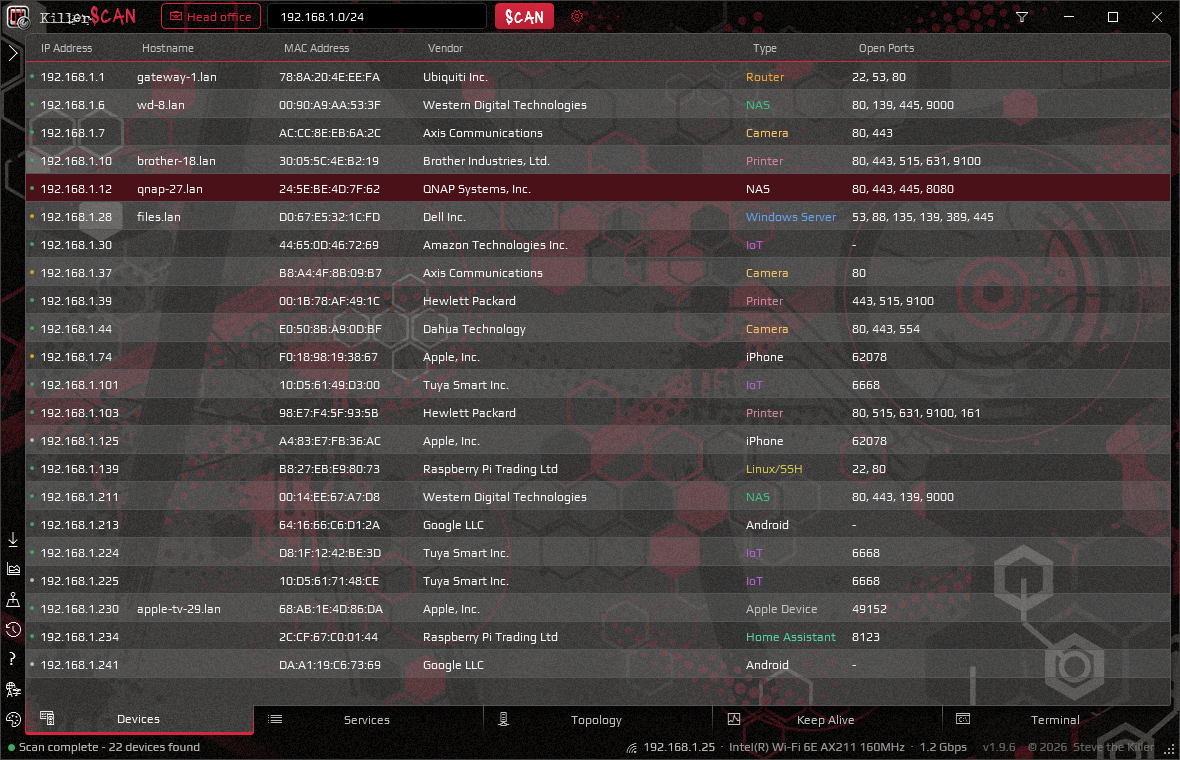
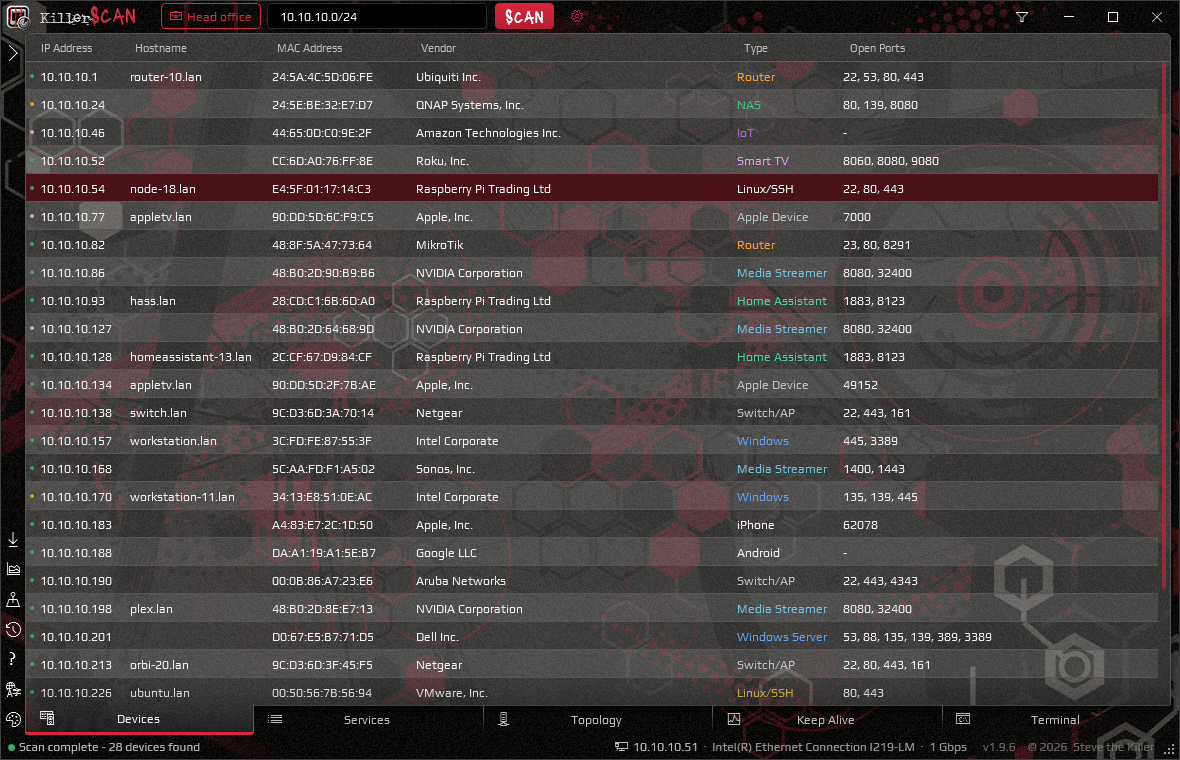
Spread the 1.9.6 shots across themes and update the README shots
Two Trash Polka shots stay on top; topology, Services, History and shortcuts now show Cyanotic, Black, Blood and Ectoplasm. History opens on All Devices so the table is full. The README shows Trash Polka devices and Cyanotic topology.

diff --git a/scan-landing/index.html b/scan-landing/index.html
@@ -286,10 +286,10 @@ html[data-theme="light"] .blurb h3, html[data-theme="light"] .feature-card h3 { 
   var descriptionsEn = [
     'The new Trash Polka theme behind the device list, in its Blood red accent, with tabs at the bottom.',
     'Keep Alive in Trash Polka with an Orange accent, its host cards sitting as dark inked bars over the ink.',
-    'Network topology in Trash Polka with a Purple accent, at 90% app size with the sidebar on the right.',
-    'The Services view in Trash Polka with a Teal accent, at 110% app size.',
-    'A saved History scan in Trash Polka with a Yellow accent, with the scan bar ready for a new scan.',
-    'Keyboard shortcuts over the device list in Trash Polka with a Magenta accent.',
+    'Network topology in the Cyanotic theme, at 90% app size with the sidebar on the right.',
+    'The Services view in the Black theme with a Teal accent, at 110% app size.',
+    'A saved History scan showing all its devices in the Blood theme, with the sidebar on the right.',
+    'Keyboard shortcuts over the device list in the Ectoplasm theme.',
     'An HTML report of the same scan, opening in its Trash Polka theme.',
     'The built-in terminal in the Dark theme, with the sidebar on the right.',
     'The device list in the Light theme with a Blue accent, at 90% app size.',
@@ -297,8 +297,8 @@ html[data-theme="light"] .blurb h3, html[data-theme="light"] .feature-card h3 { 
     'killerscan /scan /demo in a Command Prompt, printing the device table.'
   ];
   var screenshotFiles = [
-    '1.9.6-01-trash-polka-devices.png', '1.9.6-02-trash-polka-keep-alive.png', '1.9.6-03-trash-polka-topology.png',
-    '1.9.6-04-trash-polka-services.png', '1.9.6-05-trash-polka-history.png', '1.9.6-06-trash-polka-shortcuts.png',
+    '1.9.6-01-trash-polka-devices.png', '1.9.6-02-trash-polka-keep-alive.png', '1.9.6-03-cyanotic-topology.png',
+    '1.9.6-04-black-services.png', '1.9.6-05-blood-history.png', '1.9.6-06-ectoplasm-shortcuts.png',
     '1.9.6-11-html-report.png', '1.9.6-07-dark-terminal.png', '1.9.6-08-light-devices.png', '1.9.6-09-98se-devices.png',
     '1.9.6-10-command-line.png'
   ];

diff --git a/tests/SpeedTest.Tests/SiteShots.cs b/tests/SpeedTest.Tests/SiteShots.cs
@@ -72,11 +72,11 @@ internal static class SiteShots
 
         Shot("01-trash-polka-devices", Theme.TrashPolka, Accent.Red, true, () => { Devices(); Pump(300); SelectRow(4); },
             width: 1180, height: 760);
-        Shot("02-trash-polka-topology", Theme.TrashPolka, Accent.Purple, false, () => Invoke(window, "ShowScanView", "topology"),
+        Shot("02-cyanotic-topology", Theme.Cyanotic, Accent.Purple, false, () => Invoke(window, "ShowScanView", "topology"),
             width: 1000, height: 700, scale: 0.9, sidebarRight: true);
         Shot("03-trash-polka-keep-alive", Theme.TrashPolka, Accent.Orange, true, () => Invoke(window, "Watch_Click", window, new RoutedEventArgs()), 6000,
             width: 1120, height: 680);
-        Shot("04-trash-polka-services", Theme.TrashPolka, Accent.Teal, false, () => Invoke(window, "ServicesButton_Click", window, new RoutedEventArgs()),
+        Shot("04-black-services", Theme.Black, Accent.Teal, false, () => Invoke(window, "ServicesButton_Click", window, new RoutedEventArgs()),
             width: 960, height: 640, scale: 1.1);
         Shot("05-dark-terminal", Theme.Dark, Accent.Green, true, () => Invoke(window, "NewTerminalView"), 1500,
             width: 800, height: 500, scale: 1.1, sidebarRight: true);
@@ -84,14 +84,17 @@ internal static class SiteShots
             width: 1060, height: 660, scale: 0.9);
         Shot("07-98se-devices", Theme.SE98, Accent.Blue, true, () => { Devices(); Pump(300); SelectRow(2); },
             width: 980, height: 640);
-        Shot("08-trash-polka-history", Theme.TrashPolka, Accent.Yellow, true, () =>
+        Shot("08-blood-history", Theme.Blood, Accent.Yellow, true, () =>
         {
             var list = (ListBox)window.FindName("HistoryList");
             if (list.Items.Count == 0) Invoke(window, "RefreshHistoryList");
             Pump(200);
             if (list.Items.Count > 0) { list.SelectedIndex = 0; Invoke(window, "ShowHistoryEntry"); }
+            Pump(300);
+            // All Devices fills the table; the Changes view of a demo run is only a row or two.
+            if (Descendants(root).OfType<HistoryWorkspace>().FirstOrDefault() is { } history) Invoke(history, "SetView", true);
         }, width: 1040, height: 680, sidebarRight: true);
-        Shot("09-trash-polka-shortcuts", Theme.TrashPolka, Accent.Magenta, false, () => { Devices(); Pump(300); Invoke(window, "ShowShortcuts"); },
+        Shot("09-ectoplasm-shortcuts", Theme.Ectoplasm, Accent.Magenta, false, () => { Devices(); Pump(300); Invoke(window, "ShowShortcuts"); },
             width: 1240, height: 800);
         ((FrameworkElement)window.FindName("ShortcutsOverlay")).Visibility = Visibility.Collapsed;
         // The HTML report of the same demo scan, opening in Trash Polka; a headless browser captures it afterwards.

diff --git a/README.md b/README.md
@@ -22,12 +22,12 @@ The [help page](https://killerscan.net/help.html) covers every view, tool and sh
 
 ## Screenshots
 
-KillerScan 1.9 preview.
+KillerScan 1.9.6.
 
 <table>
 <tr>
-<td width="50%"><img src="scan-landing/screenshots/devices-1.9.png" alt="KillerScan device discovery with addresses, vendors, device types and open ports"><br><sub>Device discovery puts addresses, hostnames, MAC addresses, vendors, device types and open ports in one table.</sub></td>
-<td width="50%"><img src="scan-landing/screenshots/keep-alive-1.9.png" alt="KillerScan Keep Alive monitoring four hosts with latency graphs, packet loss and diagnostic checks"><br><sub>Keep Alive shows latency, packet loss, diagnostic checks and recent connection changes for each host.</sub></td>
+<td width="50%"><img src="scan-landing/screenshots/1.9.6-01-trash-polka-devices.png" alt="KillerScan device discovery in the Trash Polka theme with addresses, vendors, device types and open ports"><br><sub>Device discovery in the new Trash Polka theme puts addresses, hostnames, MAC addresses, vendors, device types and open ports in one table.</sub></td>
+<td width="50%"><img src="scan-landing/screenshots/1.9.6-03-cyanotic-topology.png" alt="KillerScan network topology in the Cyanotic theme, with the gateway, local network and every device by role"><br><sub>Topology draws the gateway, the local network and every device by role, here in the Cyanotic theme.</sub></td>
 </tr>
 </table>
 
